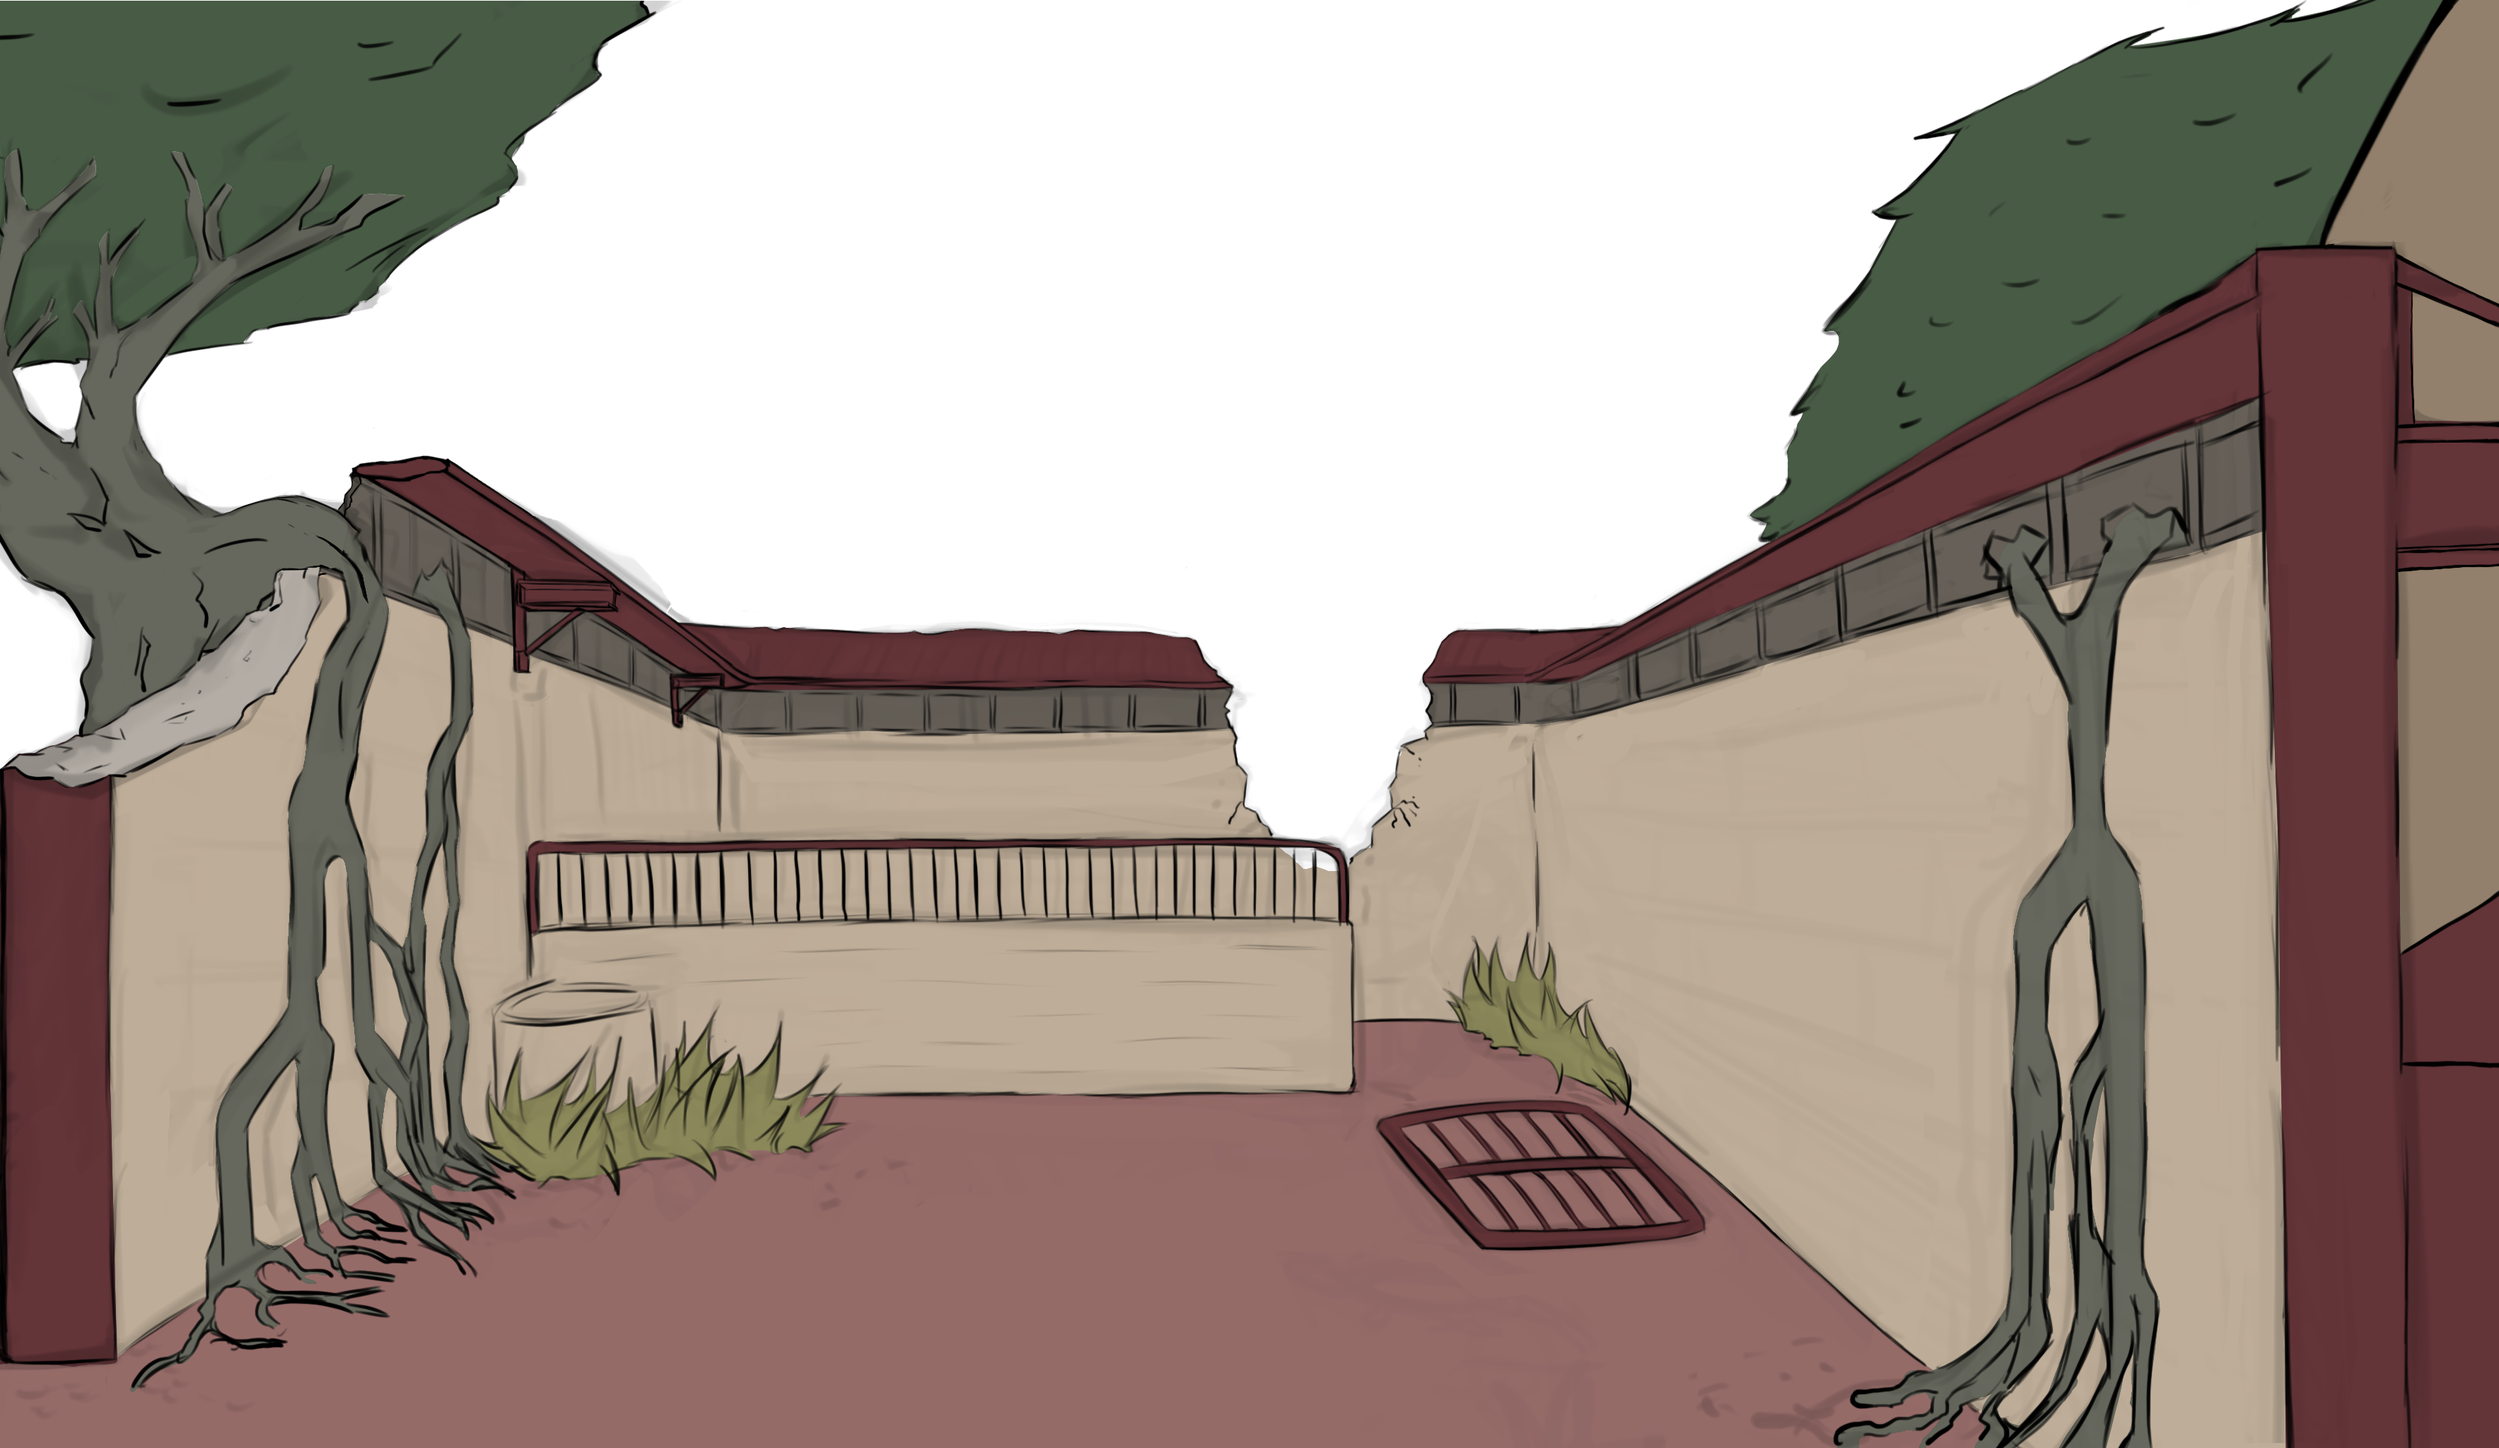
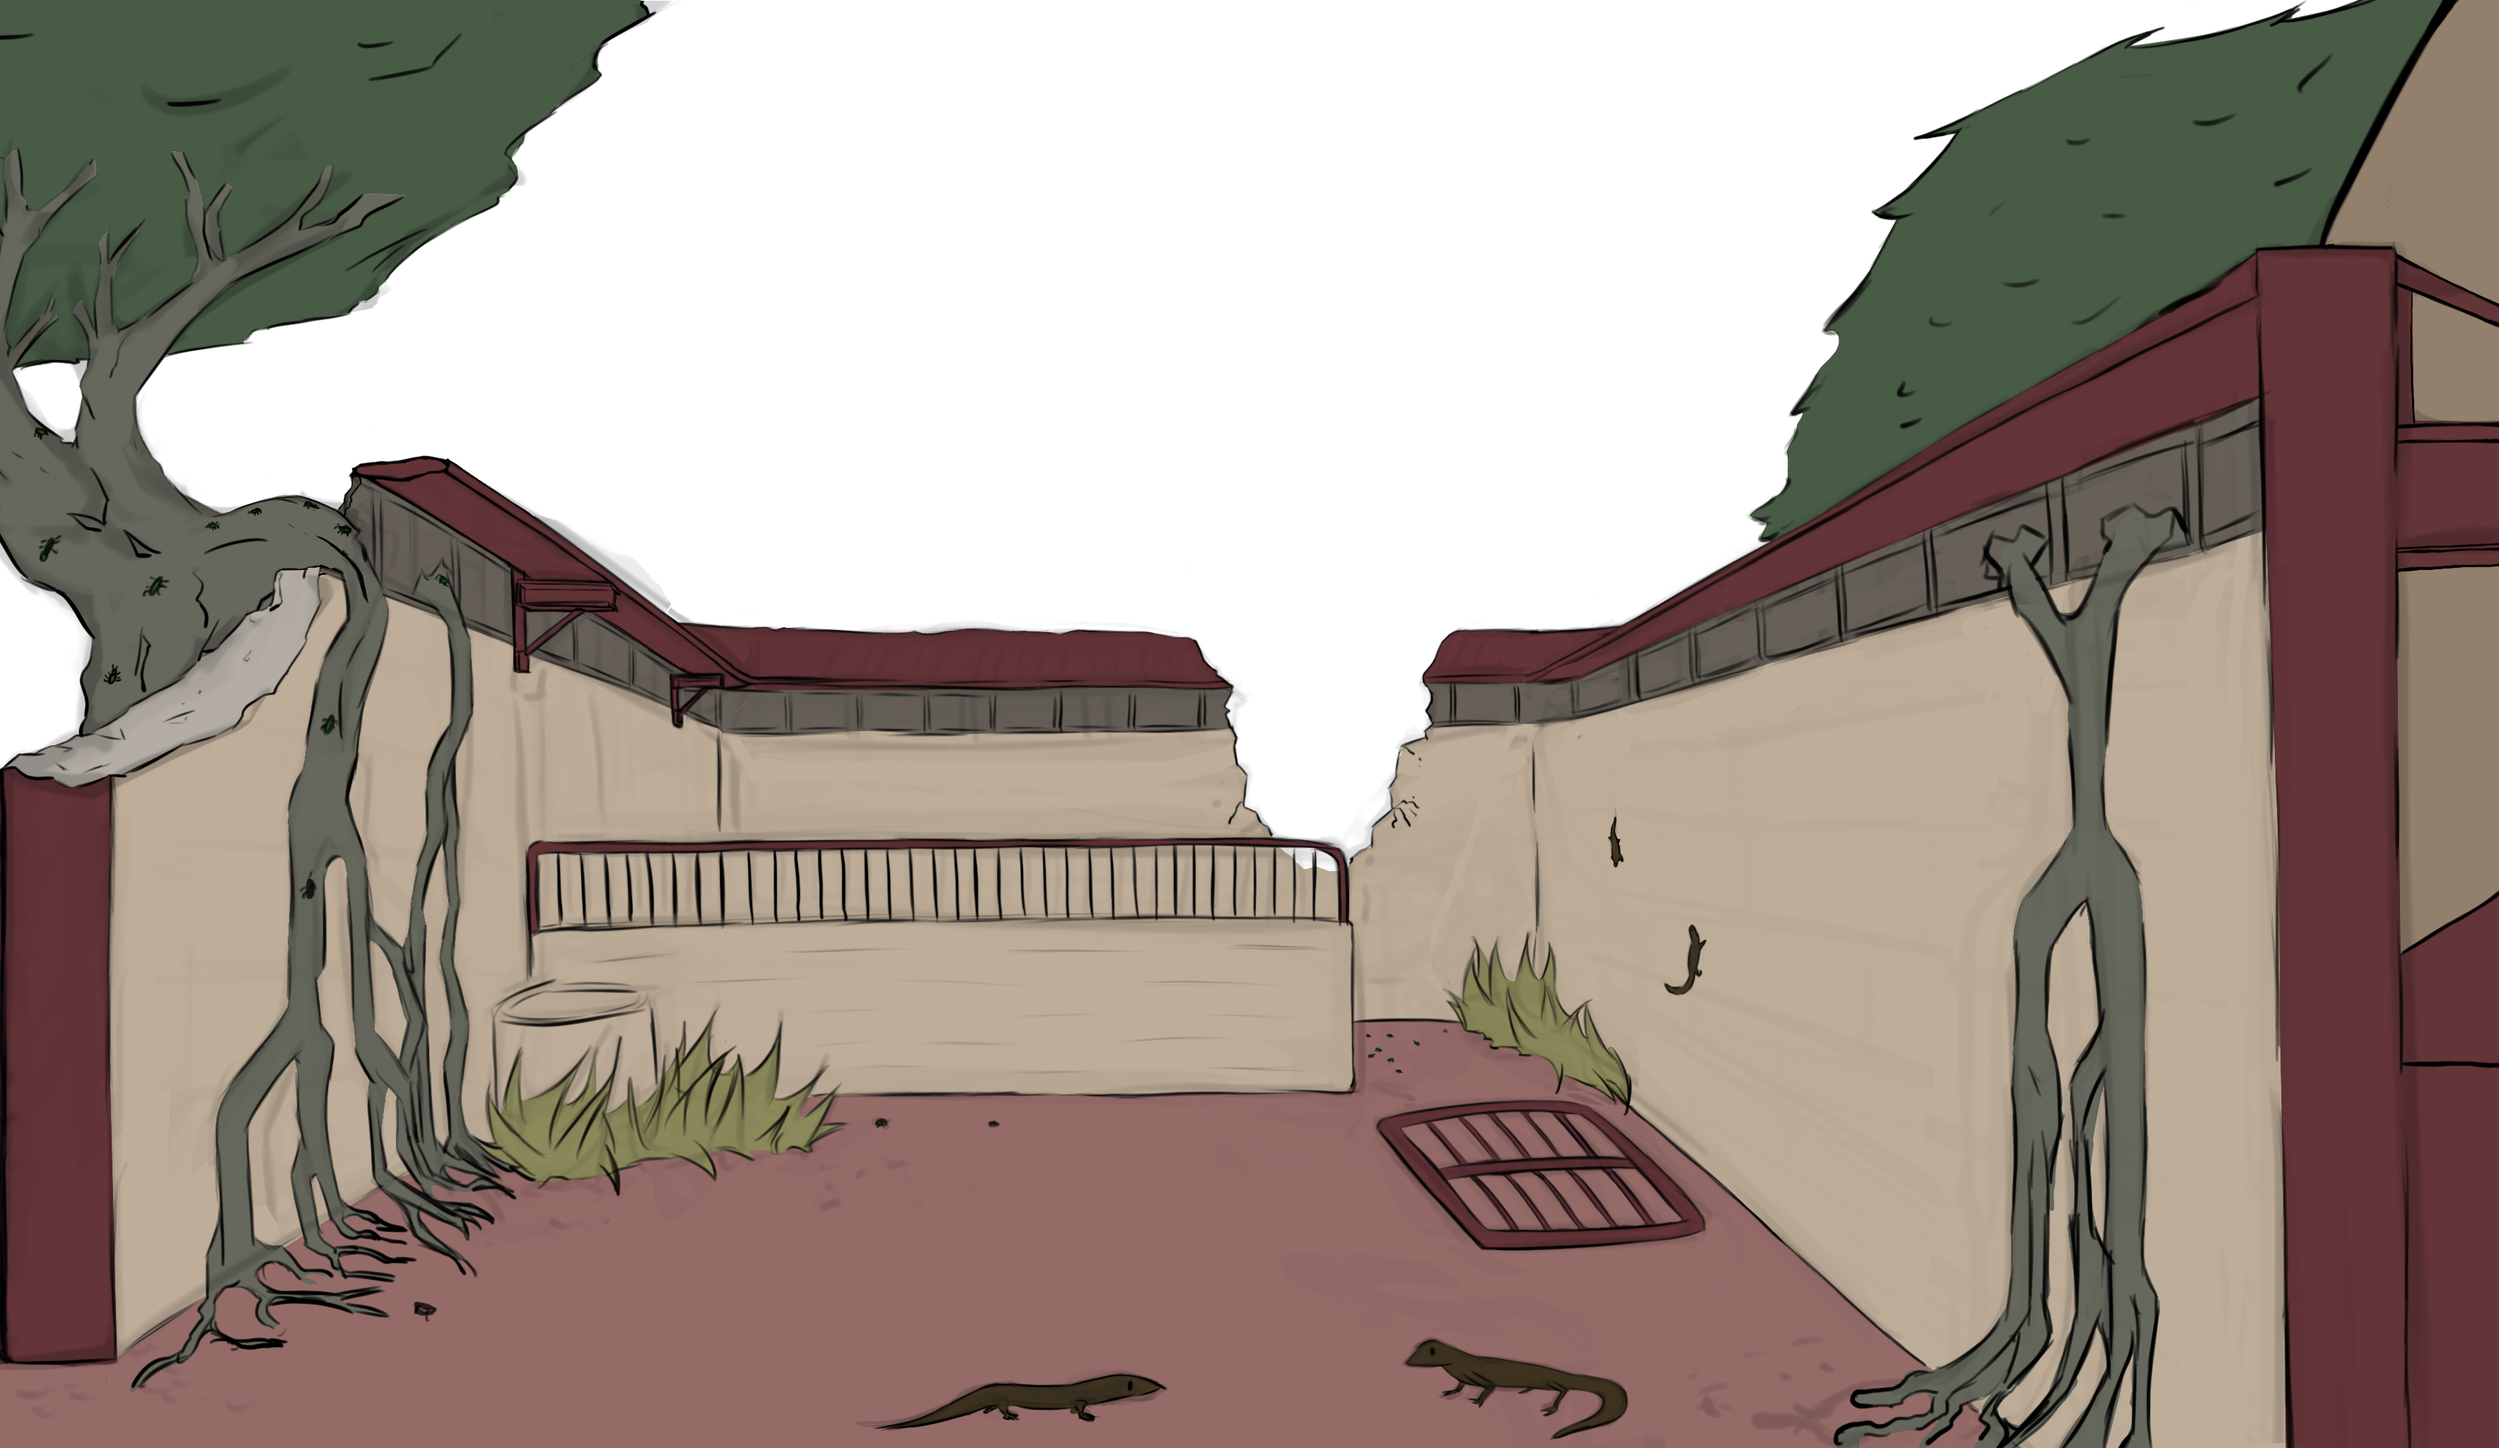
Added more animals. Final(?) composition
Going to start shading

Changed region(s): [[0.3424, 0.9375, 0.4669, 1.0], [0.5603, 0.9062, 0.6537, 1.0], [0.6537, 0.6562, 0.6848, 0.6875]]

diff --git a/parallaxComic/parallax.html b/parallaxComic/parallax.html
@@ -53,7 +53,7 @@
 				<!-- Fence -->
 				<img class="parallaxImg" data-stellar-ratio="1.4" src = "artwork/section2/3.PNG" style="z-index: 1" >
 				<!-- rock thing -->
-				<img class="parallaxImg" data-stellar-ratio="1" src = "artwork/section2/4.PNG" style="z-index: 2" >
+				<!-- <img class="parallaxImg" data-stellar-ratio="1" src = "artwork/section2/4.PNG" style="z-index: 2" > -->
 		</div>
 
 
@@ -77,9 +77,13 @@
 
 				<div id="basicMessage5" class="comicPanelFormat" data-stellar-ratio = "-0.5" style="z-index: -2"> It's also ironic to how morbid areas <br> could feel so peaceful. </div>
 
-							<img class="parallaxImg" data-stellar-ratio="1" src = "artwork/section4/1.PNG" style="width: 100%">
+				<img class="parallaxImg" data-stellar-ratio="1" src = "artwork/section4/1.PNG" style="width: 100%; z-index: 1">
 
-				<!-- <img class="parallaxImg" data-stellar-ratio="1" src = "artwork/section4/1.PNG" style="z-index: -1" > -->
+				<img class="parallaxImg" data-stellar-ratio="1" src = "artwork/section4/2.PNG" style="z-index: -1" >
+
+
+				<img id = "hidingBirds" class="parallaxImg" data-stellar-ratio="-1" src = "artwork/section4/3.PNG" style="z-index: -1" >
+
 		</div>
 		
 
@@ -91,6 +95,10 @@
 
 			<!-- need to fix.. -->
 			<img class="parallaxImg" data-stellar-ratio="1.2" src = "artwork/section5/2.PNG" style="z-index: -2; top: 3vh;" >
+
+
+			<img class="parallaxImg" data-stellar-ratio="1.8" src = "artwork/section5/4.PNG" style="z-index: 0" >
+
 		</div>
 		
 		

diff --git a/parallaxComic/javascript/parallaxIllustration.js b/parallaxComic/javascript/parallaxIllustration.js
@@ -23,6 +23,8 @@ $(window).load(function(){
 	// $('#basicMessage3').hide();
 	$('#basicMessage5').hide();
 
+    $('#hidingBirds').hide();
+
 })
 
 
@@ -71,12 +73,28 @@ window.onscroll = function(ev) {
 
     //Gotta hide this till the right moment...
     var basicMessage5 = document.getElementById("section3").getBoundingClientRect().right
-    if ( (basicMessage5 >= -300 && basicMessage5 <= 600)) {
+
+    console.log(basicMessage5)
+
+    if ((basicMessage5 >= -300 && basicMessage5 <= 600)) {
+        console.log('show!')
         $('#basicMessage5').fadeIn();
+        $('#hidingBirds').fadeIn();
+
     } else{
+
         $('#basicMessage5').fadeOut();
+
+        if(basicMessage5 < 0){
+
+        }
+        else{
+            $('#hidingBirds').fadeOut();
+        }
+
     }
     
+
 
 
 

diff --git a/parallaxComic/css/parallax.css b/parallaxComic/css/parallax.css
@@ -197,13 +197,13 @@ Gonna need SASS to handle if statements..
 }
 
 #basicMessage5{
-  margin-top: 8%;
+  margin-top: 20%;
   margin-left: 60%;
   z-index: -2;
 }
 
 #basicMessage6{
-  margin-top: 15%;
+  margin-top: 12%;
   margin-left: 8%;
   z-index: -2;
 
